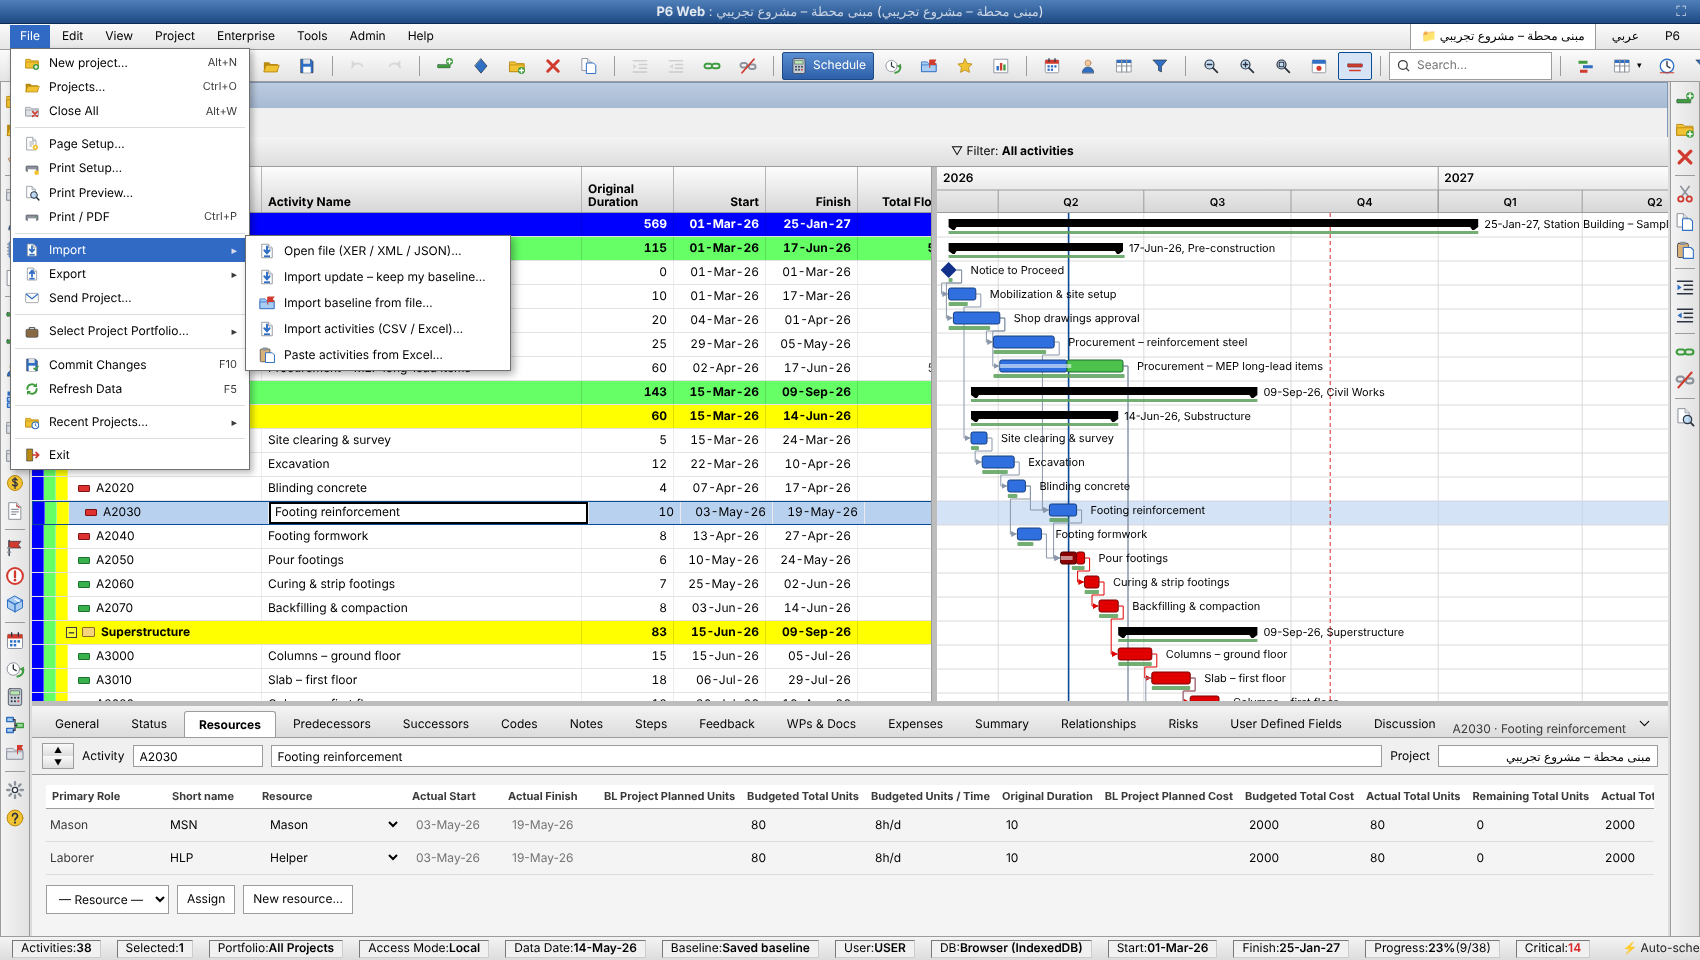
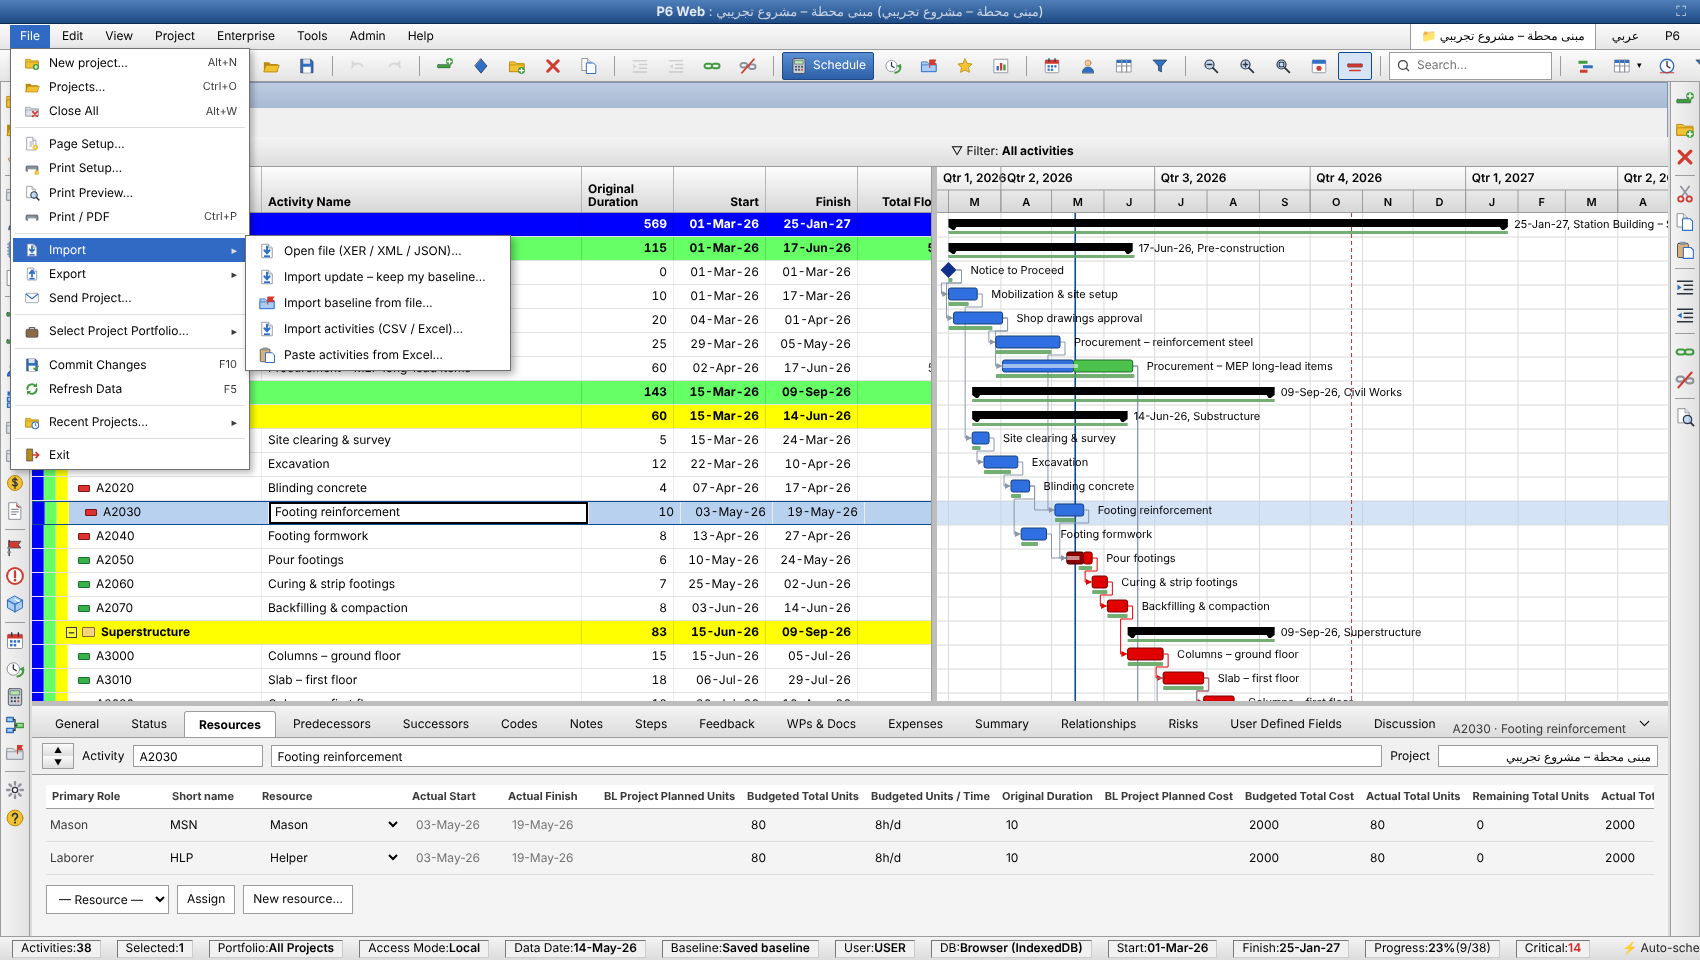
Finer zoom steps so zooming out does not jump between header units (#181)
Claude-Session: https://claude.ai/code/session_01DNKDuzURuxssrGYREb4oVz

diff --git a/p6-web/js/app.js b/p6-web/js/app.js
@@ -6,7 +6,9 @@
   const esc = P6.esc;
   const t = (k, ...a) => P6.t(k, ...a);
 
-  const ZOOMS = [60, 36, 20, 12, 6, 3, 1.6, 0.8, 0.4, 0.2, 0.1, 0.05];
+  const OLD_ZOOMS = [60, 36, 20, 12, 6, 3, 1.6, 0.8, 0.4];
+  const ZOOMS = (() => { const z = []; for (let v = 60; v >= 0.05; v *= 0.8) z.push(+v.toPrecision(3)); return z; })(); // fine steps so zooming out does not jump between header units
+  const nearZ = (px) => ZOOMS.reduce((b, v, i) => (Math.abs(Math.log(v / px)) < Math.abs(Math.log(ZOOMS[b] / px)) ? i : b), 0);
   const ALL_COLS = P6.ALL_COLS;
   const DEF_COLS = ['code', 'name', 'dur', 'es', 'ef', 'tf'];
   const TYPES = ['TT_Task', 'TT_Mile', 'TT_FinMile', 'TT_LOE'];
@@ -28,6 +30,7 @@
       const c = JSON.parse(localStorage.getItem(CFG_KEY) || 'null');
       if (c) { Object.assign(S.cfg, c); S.cfg.show = Object.assign({ base: true, crit: true, rels: true, labels: true, float: false, today: true, spot: false }, c.show); S.cfg.filter = Object.assign({ text: '', mode: 'all' }, c.filter); }
     } catch (e) { /* ignore */ }
+    if (S.cfg.zv !== 2) { S.cfg.pxIdx = nearZ(OLD_ZOOMS[S.cfg.pxIdx] || 12); Object.values(S.cfg.layouts || {}).forEach((l) => { if (l.pxIdx != null) l.pxIdx = nearZ(OLD_ZOOMS[l.pxIdx] || 12); }); S.cfg.zv = 2; }
     if (!S.cfg.cols.every((c) => ALL_COLS[c.k])) S.cfg.cols = DEF_COLS.map((k) => ({ k, w: ALL_COLS[k].w }));
   }
   function saveCfg() { try { localStorage.setItem(CFG_KEY, JSON.stringify(S.cfg)); } catch (e) { /* ignore */ } }
@@ -1185,7 +1188,7 @@
     saveCfg(); refresh(); buildMenus(); buildLayoutBar();
   }
   API.applyLayout = applyLayout; API.buildLayoutBar = () => buildLayoutBar();
-  const TS = [['day', 1], ['week', 3], ['month', 5], ['quarter', 7], ['year', 8]];
+  const TS = [['day', 36], ['week', 12], ['month', 3], ['quarter', 0.8], ['year', 0.4]].map(([k, v]) => [k, nearZ(v)]);
   function setTimescale(i) { const gs = $('#gScroll'); const old = ZOOMS[S.cfg.pxIdx]; const c = S.minDay + (gs.scrollLeft + gs.clientWidth / 2) / old; S.cfg.pxIdx = i; saveCfg(); pushGantt(); gs.scrollLeft = (c - S.minDay) * ZOOMS[i] - gs.clientWidth / 2; buildLayoutBar(); }
   const BARS = [['base', 'show_baseline'], ['crit', 'show_critical'], ['rels', 'show_rels'], ['labels', 'show_labels'], ['float', 'show_float'], ['today', 'show_today'], ['spot', 'spotlight']];
   function buildLayoutBar() { if (API.drawLayoutBar) API.drawLayoutBar(); }

diff --git a/p6-web/js/gantt.js b/p6-web/js/gantt.js
@@ -73,7 +73,7 @@
         walk(monthStart, nextMonth, mLabel, top);
         let d = d0 - P6.dow(d0);
         for (; d <= d1; d += 7) bot.push([d, d + 7, String(P6.ymd(d).d)]);
-      } else if (px >= 2.2) {
+      } else if (px >= 0.9) {
         const qStart = (d) => { const y = P6.ymd(d); return P6.mkDay(y.y, y.m - (y.m % 3), 1); };
         const qNext = (d) => { const y = P6.ymd(d); return P6.mkDay(y.y, y.m - (y.m % 3) + 3, 1); };
         walk(qStart, qNext, (d) => { const y = P6.ymd(d); return 'Qtr ' + (Math.floor(y.m / 3) + 1) + ', ' + y.y; }, top);
